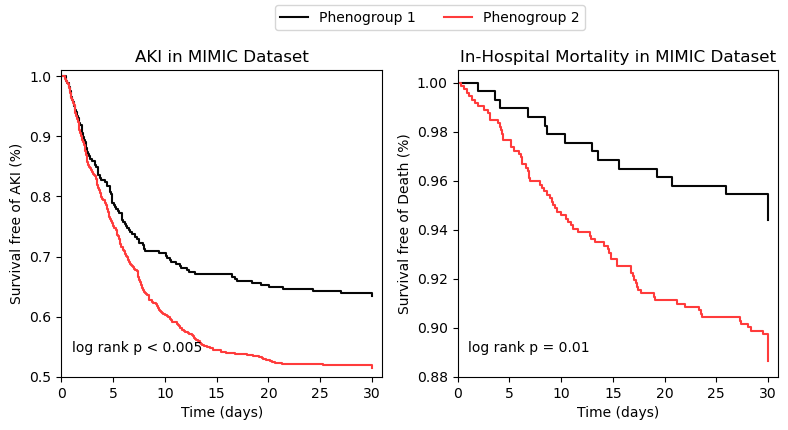
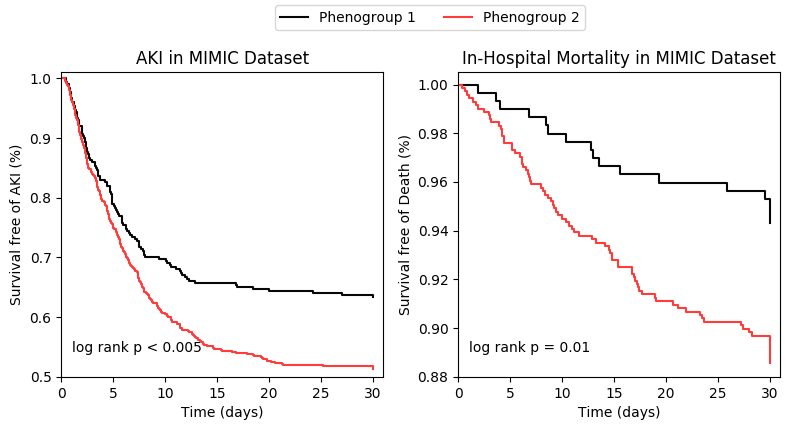
Improve

diff --git a/src/transfer_test.py b/src/transfer_test.py
@@ -10,40 +10,41 @@ def main():
     setting_dict = {
         'aki_only_group': ['group_id'],
         'aki_10':
-            ['PCI', 'ALT', 'diuretic', 'AST', 'age', 'sex', 'Anticoagulants', 'PositiveInotropicDrugs',
-             'NT-pro-BNP', 'Angiography'],
+            ['PCI', 'age', 'Acute HF', 'sex', 'antiplatelet', 'diabetes', 'NT-pro-BNP', 'vasodilator', 'Angiography',
+             'CCB'],
         'aki_10_group':
-            ['PCI', 'beta-blocker', 'egfr', 'group_id', 'AST', 'Urea', 'sex', 'antiplatelet', 'TnT',
+            ['ACEI/ARB', 'PCI', 'egfr', 'group_id', 'Acute HF', 'sex', 'Anticoagulants', 'antiplatelet', 'TnT',
              'NT-pro-BNP', 'Angiography'],
         'aki_39':
-            ['ACEI', 'ARB', 'BMI', 'PCI', 'beta-blocker', 'egfr', 'GGT', 'ALT', 'LDL-C', 'CHD', 'diuretic', 'AST',
-             'LVEF', 'Urea', 'age', 'AF', 'myocardiopathy', 'sex', 'TotalBilirubin', 'TotalProtein',
-             'Anticoagulants', 'antiplatelet', 'PositiveInotropicDrugs', 'VHD', 'Triglycerides', 'TnT', 'NT-pro-BNP',
-             'stroke', 'Glucose', 'DBP', 'SBP', 'vasodilator', 'Hemoglobin', 'Angiography', 'Calcium', 'CCB', 'Sodium',
-             'Potassium', 'HDL-C'],
+            ['ACEI/ARB', 'BMI', 'PCI', 'beta-blocker', 'egfr', 'GGT', 'ALT', 'LDL-C', 'CHD', 'diuretic', 'AST',
+             'LVEF', 'Urea', 'age', 'AF', 'myocardiopathy', 'Acute HF', 'sex', 'TotalBilirubin', 'TotalProtein',
+             'Anticoagulants', 'antiplatelet', 'PositiveInotropicDrugs', 'VHD', 'Triglycerides', 'diabetes', 'TnT',
+             'NT-pro-BNP', 'stroke', 'DBP', 'SBP', 'vasodilator', 'Hemoglobin', 'Angiography', 'Calcium', 'CCB',
+             'Sodium', 'Potassium', 'HDL-C'],
         'aki_39_group':
-            ['ACEI', 'ARB', 'BMI', 'PCI', 'beta-blocker', 'egfr', 'group_id', 'GGT', 'ALT',  'LDL-C', 'CHD', 'diuretic',
-             'AST', 'LVEF', 'Urea', 'age', 'AF', 'myocardiopathy', 'sex', 'TotalBilirubin', 'TotalProtein',
-             'Anticoagulants', 'antiplatelet', 'PositiveInotropicDrugs', 'VHD', 'Triglycerides', 'TnT', 'NT-pro-BNP',
-             'stroke', 'Glucose', 'DBP', 'SBP', 'vasodilator', 'Hemoglobin', 'Angiography', 'Calcium', 'CCB', 'Sodium',
-             'Potassium', 'HDL-C'],
+            ['ACEI/ARB', 'BMI', 'PCI', 'beta-blocker', 'egfr', 'group_id', 'GGT', 'ALT', 'LDL-C', 'CHD', 'diuretic',
+             'AST', 'LVEF', 'Urea', 'age', 'AF', 'myocardiopathy', 'Acute HF', 'sex', 'TotalBilirubin', 'TotalProtein',
+             'Anticoagulants', 'antiplatelet', 'PositiveInotropicDrugs', 'VHD', 'Triglycerides', 'diabetes', 'TnT',
+             'NT-pro-BNP', 'stroke', 'DBP', 'SBP', 'vasodilator', 'Hemoglobin', 'Angiography', 'Calcium', 'CCB',
+             'Sodium', 'Potassium', 'HDL-C'],
         'death_only_group': ['group_id'],
         'death_10':
-            ['ACEI', 'ARB', 'egfr', 'GGT', 'ALT', 'Urea', 'age', 'TotalProtein', 'Anticoagulants', 'Triglycerides'],
+            ['PCI', 'egfr', 'AST', 'age', 'Acute HF', 'sex', 'TotalBilirubin', 'diabetes', 'vasodilator',
+             'Angiography'],
         'death_10_group':
-            ['PCI', 'egfr', 'group_id', 'CHD', 'diuretic', 'Urea', 'age', 'sex', 'Triglycerides', 'SBP', 'Angiography'],
+            ['PCI', 'egfr', 'group_id', 'ALT', 'AST', 'Urea', 'age', 'Acute HF', 'sex', 'diabetes', 'Angiography'],
         'death_39':
-            ['ACEI', 'ARB', 'BMI', 'PCI', 'beta-blocker', 'egfr', 'GGT', 'ALT', 'LDL-C', 'CHD', 'diuretic', 'AST',
-             'LVEF', 'Urea', 'age', 'AF', 'myocardiopathy', 'sex', 'TotalBilirubin', 'TotalProtein',
-             'Anticoagulants', 'antiplatelet', 'PositiveInotropicDrugs', 'VHD', 'Triglycerides', 'TnT', 'NT-pro-BNP',
-             'stroke', 'Glucose', 'DBP', 'SBP', 'vasodilator', 'Hemoglobin', 'Angiography', 'Calcium', 'CCB', 'Sodium',
-             'Potassium', 'HDL-C'],
+            ['ACEI/ARB', 'BMI', 'PCI', 'beta-blocker', 'egfr', 'GGT', 'ALT', 'LDL-C', 'CHD', 'diuretic', 'AST',
+             'LVEF', 'Urea', 'age', 'AF', 'myocardiopathy', 'Acute HF', 'sex', 'TotalBilirubin', 'TotalProtein',
+             'Anticoagulants', 'antiplatelet', 'PositiveInotropicDrugs', 'VHD', 'Triglycerides', 'diabetes', 'TnT',
+             'NT-pro-BNP', 'stroke', 'DBP', 'SBP', 'vasodilator', 'Hemoglobin', 'Angiography', 'Calcium', 'CCB',
+             'Sodium', 'Potassium', 'HDL-C'],
         'death_39_group':
-            ['ACEI', 'ARB', 'BMI', 'PCI', 'beta-blocker', 'egfr', 'group_id', 'GGT', 'ALT',  'LDL-C', 'CHD', 'diuretic',
-             'AST', 'LVEF', 'Urea', 'age', 'AF', 'myocardiopathy', 'sex', 'TotalBilirubin', 'TotalProtein',
-             'Anticoagulants', 'antiplatelet', 'PositiveInotropicDrugs', 'VHD', 'Triglycerides', 'TnT', 'NT-pro-BNP',
-             'stroke', 'Glucose', 'DBP', 'SBP', 'vasodilator', 'Hemoglobin', 'Angiography', 'Calcium', 'CCB', 'Sodium',
-             'Potassium', 'HDL-C'],
+            ['ACEI/ARB', 'BMI', 'PCI', 'beta-blocker', 'egfr', 'group_id', 'GGT', 'ALT', 'LDL-C', 'CHD', 'diuretic',
+             'AST', 'LVEF', 'Urea', 'age', 'AF', 'myocardiopathy', 'Acute HF', 'sex', 'TotalBilirubin', 'TotalProtein',
+             'Anticoagulants', 'antiplatelet', 'PositiveInotropicDrugs', 'VHD', 'Triglycerides', 'diabetes', 'TnT',
+             'NT-pro-BNP', 'stroke', 'DBP', 'SBP', 'vasodilator', 'Hemoglobin', 'Angiography', 'Calcium', 'CCB',
+             'Sodium', 'Potassium', 'HDL-C'],
     }
 
     label_path = os.path.abspath('../resource/mimic_unpreprocessed.csv')

diff --git a/src/visit_and_feature_filter.py b/src/visit_and_feature_filter.py
@@ -7,11 +7,11 @@ from itertools import islice
 def main():
     patient_delete_missing_rate = 0.3
     egfr_threshold = 60
-    item_list = ['egfr', 'age', 'sex', 'Angiography', 'PCI', 'diuretic', 'Anticoagulants', 'CCB', 'ACEI',
-                 'PositiveInotropicDrugs', 'ARB', 'beta-blocker', 'antiplatelet', 'vasodilator', 'DBP', 'SBP',
-                 'BMI', 'Triglycerides', 'TotalProtein', 'ALT', 'Sodium', 'GGT', 'Potassium',
-                 'Glucose', 'TotalBilirubin', 'HDL-C', 'TnT', 'Hemoglobin', 'Calcium', 'NT-pro-BNP', 'Urea',
-                 'AST', 'LDL-C', 'LVEF', 'VHD', 'myocardiopathy', 'CHD', 'stroke', 'AF']
+    item_list = ["Acute HF", 'egfr', 'diabetes', 'age', 'sex', 'Angiography', 'PCI', 'antiplatelet', 'Anticoagulants',
+                 'beta-blocker', 'PositiveInotropicDrugs', 'vasodilator', 'ACEI/ARB', 'CCB', 'diuretic', 'DBP', 'SBP',
+                 'BMI', 'Triglycerides', 'TotalProtein', 'ALT', 'Sodium', 'GGT', 'Potassium', 'TotalBilirubin',
+                 'HDL-C', 'TnT', 'Hemoglobin', 'Calcium', 'NT-pro-BNP', 'Urea', 'AST', 'LDL-C', 'LVEF', 'VHD',
+                 'myocardiopathy', 'CHD', 'stroke', 'AF']
     reserve_set = set(item_list)
 
     source_file_path = os.path.abspath('../resource/mimic_unpreprocessed.csv')

diff --git a/src/value_convert.py b/src/value_convert.py
@@ -121,6 +121,5 @@ def read_imputing_set(impute_file_path):
     return impute_dict
 
 
-
 if __name__ == '__main__':
     main()

diff --git a/README.md b/README.md
@@ -62,15 +62,15 @@ The medians, frequencies, as well as the quartiles and counts of MIMIC dataset l
 Please run the 'transfer_test.py' script
 This script is responsible test the robustness of our risk stratification model. Once the script is successfully executed, we can see the output like:
 ```
-aki_only_group, recall (sensitivity): 0.77093, specificity: 0.32790, auc: 0.54941
-aki_10, recall (sensitivity): 0.53744, specificity: 0.49457, auc: 0.50402
-aki_10_group, recall (sensitivity): 0.49559, specificity: 0.56703, auc: 0.54891
-aki_39, recall (sensitivity): 0.57930, specificity: 0.51993, auc: 0.56808
-aki_39_group, recall (sensitivity): 0.61013, specificity: 0.49819, auc: 0.57261
-death_only_group, recall (sensitivity): 0.83673, specificity: 0.29626, auc: 0.56650
-death_10, recall (sensitivity): 0.67347, specificity: 0.53965, auc: 0.65490
-death_10_group, recall (sensitivity): 0.70408, specificity: 0.54736, auc: 0.66700
-death_39, recall (sensitivity): 0.55102, specificity: 0.70815, auc: 0.65041
-death_39_group, recall (sensitivity): 0.59184, specificity: 0.65859, auc: 0.65603
+aki_only_group, recall (sensitivity): 0.75991, specificity: 0.34239, auc: 0.55115
+aki_10, recall (sensitivity): 0.37445, specificity: 0.65217, auc: 0.53239
+aki_10_group, recall (sensitivity): 0.47797, specificity: 0.56159, auc: 0.54564
+aki_39, recall (sensitivity): 0.54405, specificity: 0.55978, auc: 0.57027
+aki_39_group, recall (sensitivity): 0.57269, specificity: 0.53986, auc: 0.57440
+death_only_group, recall (sensitivity): 0.82653, specificity: 0.30947, auc: 0.56800
+death_10, recall (sensitivity): 0.53061, specificity: 0.67181, auc: 0.62221
+death_10_group, recall (sensitivity): 0.62245, specificity: 0.59912, auc: 0.64722
+death_39, recall (sensitivity): 0.48980, specificity: 0.74449, auc: 0.64522
+death_39_group, recall (sensitivity): 0.52041, specificity: 0.72026, auc: 0.64457
 ```
 The results is same as the MIMIC dataset results that we listed in the Table 3.
